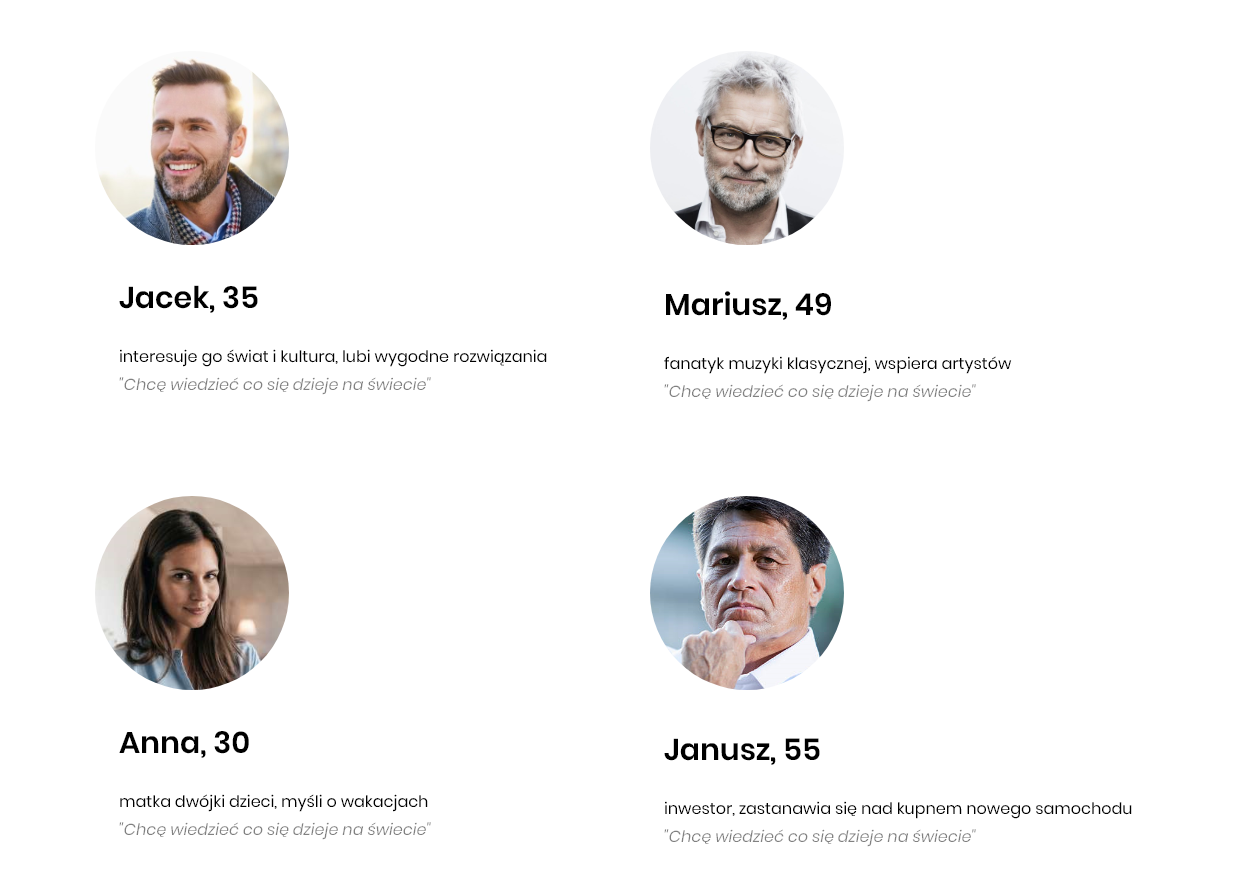
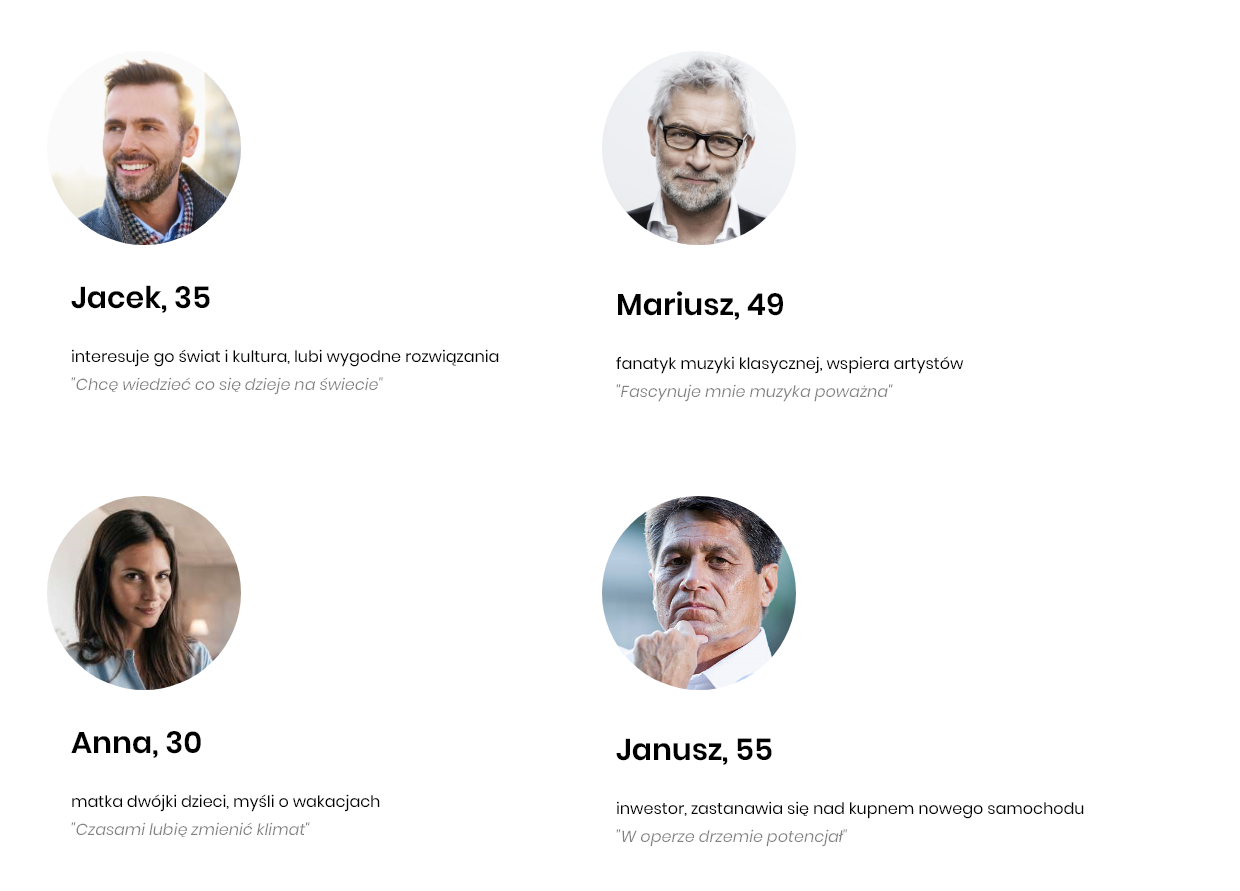
fixes

diff --git a/filharmonia.html b/filharmonia.html
@@ -120,7 +120,7 @@
 
         <h2>Persony</h2>
         <div class="proimg"><img src="images/filharmonia/persony2.png"></div>
-        <span class="spacersmall"></span>
+        <span class="spacervsmall"></span>
         <div class="proabout">
             <p>Uproszczony model potencjalnych użytkowników. Mamy tu do czynienia przede wszystkim z ludźmi po 30 roku życia, 
                 jak i z tymi starszymi. Pierwsza grupa - wiek 30-40, to często <b>rodzice</b>. Dla nich ważne będą (oprócz standardowych koncertów)

diff --git a/css/projects.css b/css/projects.css
@@ -118,6 +118,11 @@ p {
     height: 70px;
 }
 
+.spacervsmall {
+    display: block;
+    height: 40px;
+}
+
 
 @media screen and (max-width: 1200px) {
     .content {
